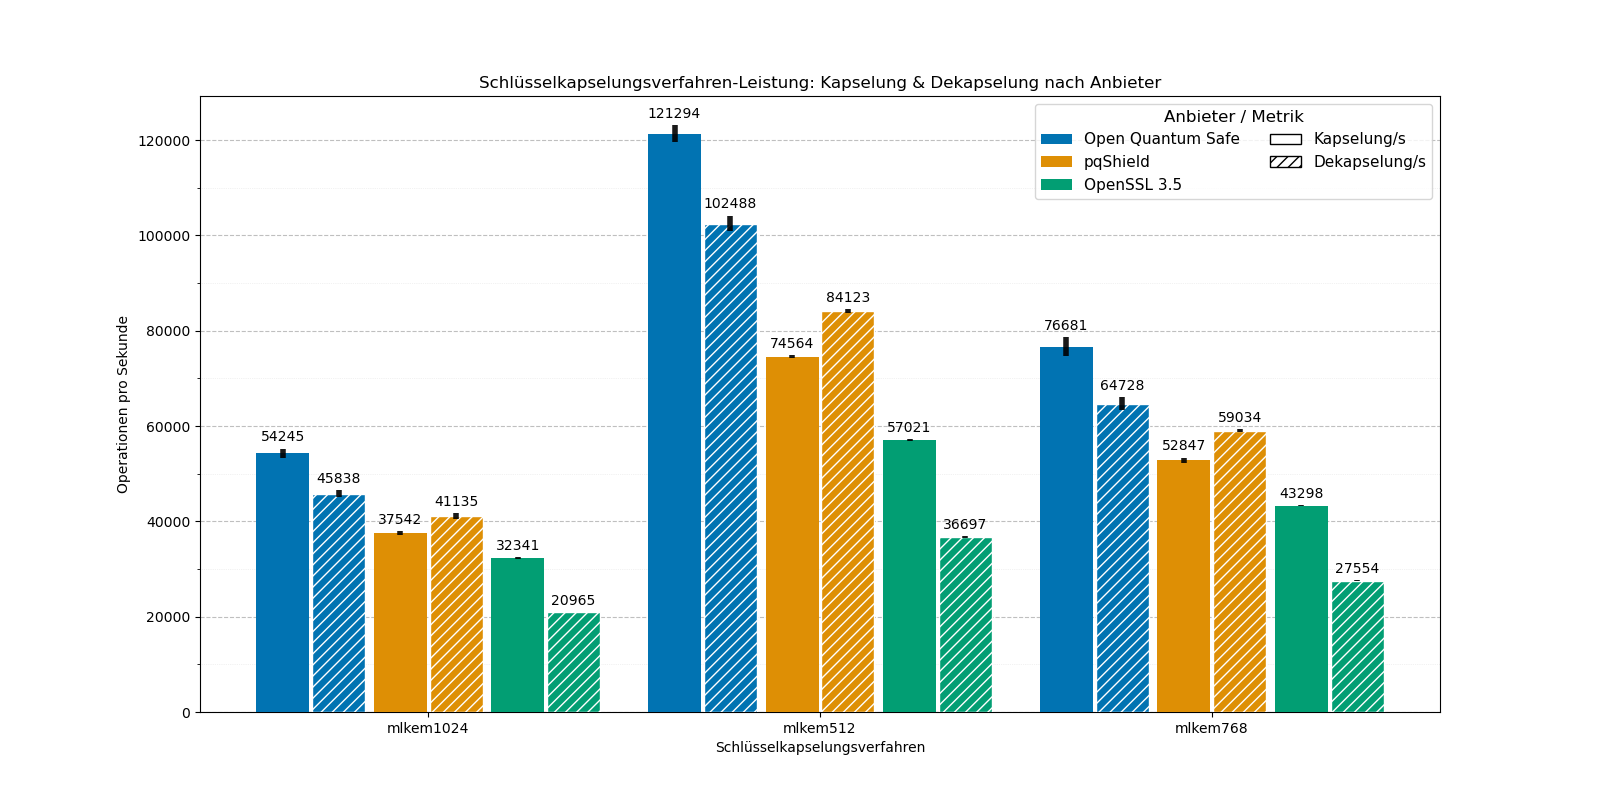
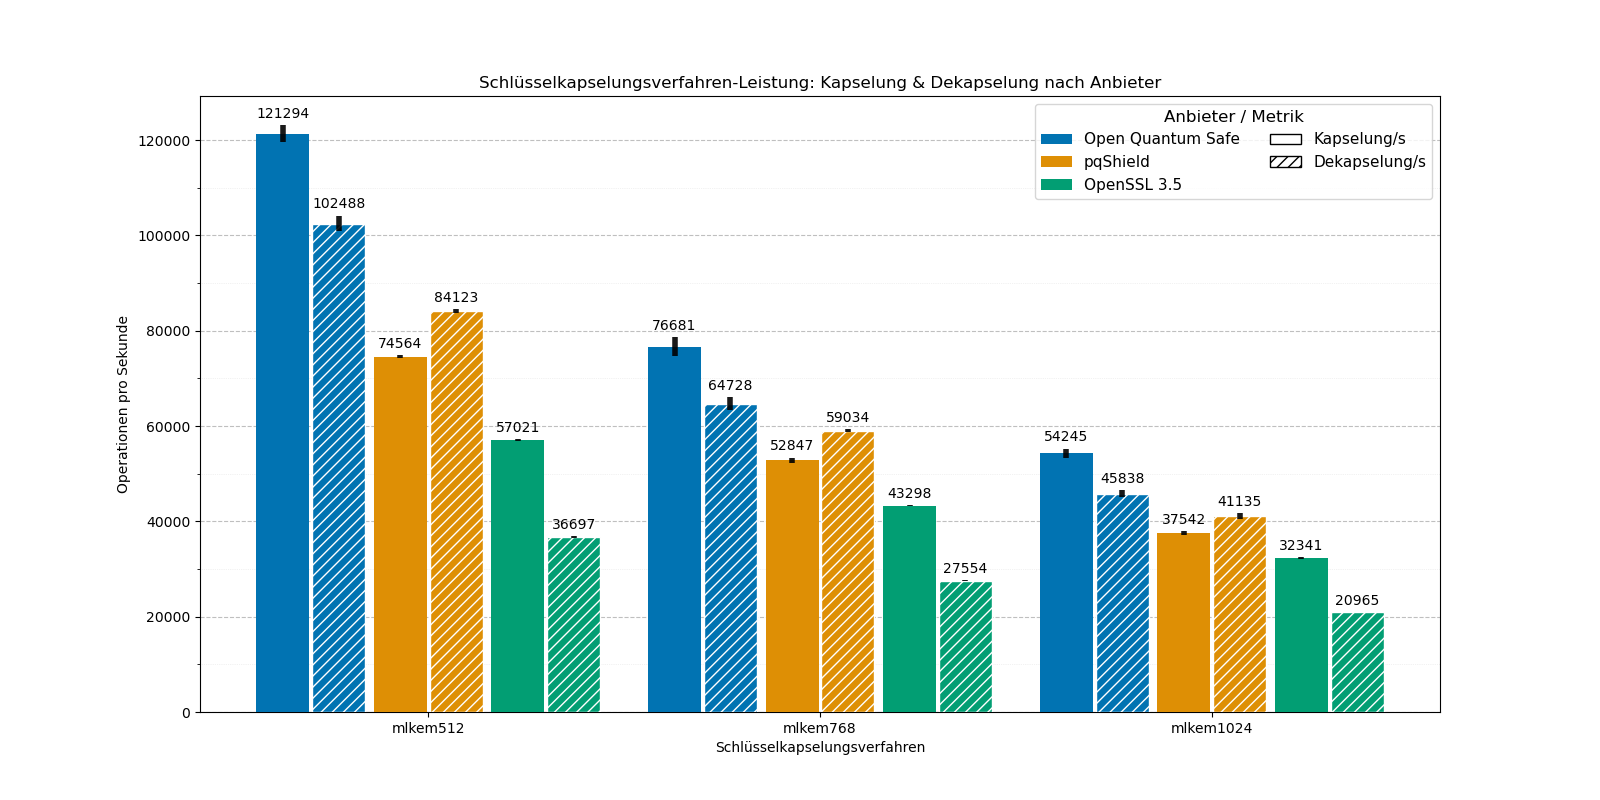
reorder kem algorithms

diff --git a/src/result_analyzing/generate_graphs.py b/src/result_analyzing/generate_graphs.py
@@ -16,6 +16,7 @@ RESULT_PROVIDERS_FILE_MAP = {
 
 # Fixed provider order to ensure consistent colors across all diagrams
 PROVIDER_ORDER = ["Open Quantum Safe", "pqShield", "OpenSSL 3.5"]
+KEM_ORDER = ["mlkem512", "mlkem768", "mlkem1024"]
 
 KEM_NAME_MAP = {
     "ML-KEM-1024": "mlkem1024",
@@ -103,6 +104,11 @@ def get_tls_graph(nist_level: int, data: pd.DataFrame, ax):
     # Increase legend text size and title size for readability
     ax.legend(title="Anbieter", fontsize=9, title_fontsize=11, markerscale=1, handlelength=1.5, handletextpad=0.6)
 
+# Sort the pivot tables to match the KEM_ORDER
+def sort_pivot_by_order(pivot, order):
+    return pivot.reindex(order)
+
+# Update the get_kem_alg_graph function to sort by KEM_ORDER
 def get_kem_alg_graph(data: pd.DataFrame):
     # normalize KEM names
     data = data.replace({"kem-algorithm": KEM_NAME_MAP})
@@ -124,6 +130,12 @@ def get_kem_alg_graph(data: pd.DataFrame):
     pivot_encap_std = summary.pivot(index='kem-algorithm', columns='provider', values='encaps/s_std').fillna(0)
     pivot_decap = summary.pivot(index='kem-algorithm', columns='provider', values='decaps/s_mean').fillna(0)
     pivot_decap_std = summary.pivot(index='kem-algorithm', columns='provider', values='decaps/s_std').fillna(0)
+
+    # Sort the pivot tables by KEM_ORDER
+    pivot_encap = sort_pivot_by_order(pivot_encap, KEM_ORDER)
+    pivot_encap_std = sort_pivot_by_order(pivot_encap_std, KEM_ORDER)
+    pivot_decap = sort_pivot_by_order(pivot_decap, KEM_ORDER)
+    pivot_decap_std = sort_pivot_by_order(pivot_decap_std, KEM_ORDER)
 
     kem_labels = pivot_encap.index.tolist()
     # Use consistent provider ordering, filtering out any missing providers
